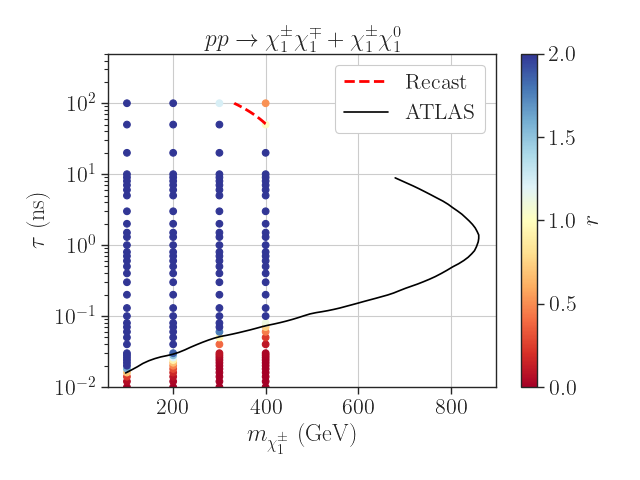
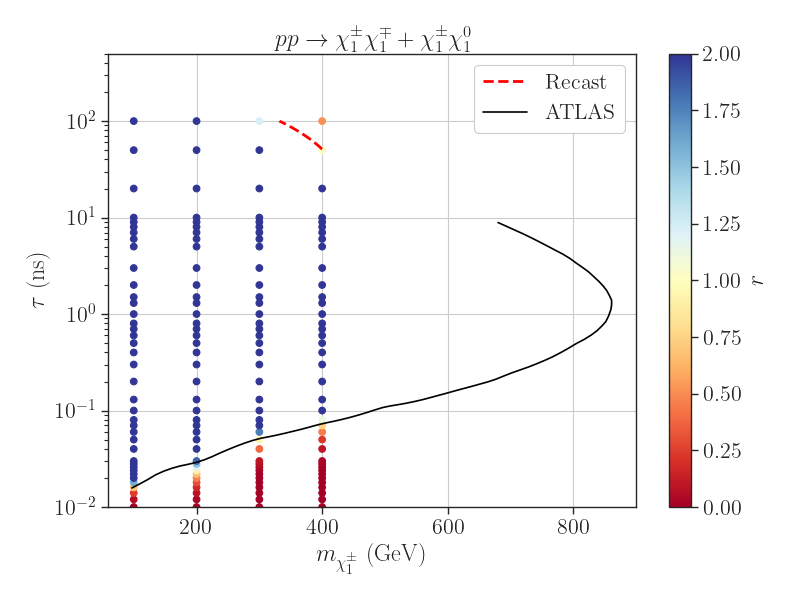
Added validation notes

diff --git a/DisappearingTracks/ATLAS-SUSY-2018-19/validation/README.md b/DisappearingTracks/ATLAS-SUSY-2018-19/validation/README.md
@@ -1,1 +1,51 @@
 # Validation
+
+The results for the Wino scenario used for validating the recasting code can be found in the files:
+* [C1C1_effs.json](C1C1_effs.json): overall search efficiencies for chargino pair production
+* [C1N1_effs.json](C1N1_effs.json): overall search efficiencies for chargino-neutralino associated production
+
+
+## Computing efficiencies
+
+These efficiencies can be reproduced through the following steps:
+
+1. Generate events running (in the top folder):
+   ```
+   ./runScanMG5.py -p validation/scan_parameters_wino_chgchg.ini
+   ```
+   and
+   ```
+   ./runScanMG5.py -p validation/scan_parameters_wino_chgn1.ini
+   ```
+   The events (Delphes/ROOT files) will be stored in the `pp2chgchg` and `pp2chgn1` folders for several chargino masses and lifetimes.
+   The cards for the event generation ([Cards](./Cards)) and other options for event generation are defined in the `scan_parameters_wino_xx.ini` files.
+
+2. Compute efficiencies running:
+   ```
+   ./computeEfficiencies.py -i pp2chgchg/Events -l 1000024 -tauF tau_list.csv
+   ```
+   and
+   ```
+   ./computeEfficiencies.py -i pp2chgn1/Events -l 1000024 -tauF tau_list.csv
+   ``` 
+   The final efficiencies are stored in .json files in the event folders.
+
+3. Collect the results running:
+   ```
+   ./collectData.py -i pp2chgchg/Events -o C1C1_effs.json
+   ```
+   and
+   ```
+   ./collectData.py -i pp2chgn1/Events -o C1N1_effs.json
+   ```
+   The combined efficiencies are finally stored in the `C1C1_effs.json` and `C1N1_effs.json` files.
+
+
+## Plotting the exclusion curve
+
+After computing the efficiencies the Jupyter notebook [plotEffs.ipynb](plotEffs.ipynb) shows an example of how to
+analyse them, while the [plotExclusion.ipynb](plotExclusion.ipynb) shows how to obtain the exclusion curve.
+
+Below is a comparison between the exclusion curve obtained for the Wino scenario using the recasting code and the official ATLAS exclusion. *Note that ATLAS uses a model dependent approach which results in slightly stronger limits.*
+
+<img src="./wino_exclusion.png" width="550" height="400">

diff --git a/DisappearingTracks/ATLAS-SUSY-2018-19/README.md b/DisappearingTracks/ATLAS-SUSY-2018-19/README.md
@@ -128,6 +128,6 @@ Examples on how to plot the efficiencies and compute the exclusion curve can be 
 
 Below is a comparison between the exclusion curve obtained for the Wino scenario using the recasting code and the official ATLAS exclusion. *Note that ATLAS uses a model dependent approach which results in slightly stronger limits.*
 
-<img src="validation/wino_exclusion.png" width="400" height="270">
+<img src="validation/wino_exclusion.png" width="550" height="400">
 
 More information about validation can be found in the [validation](./validation/) folder.
